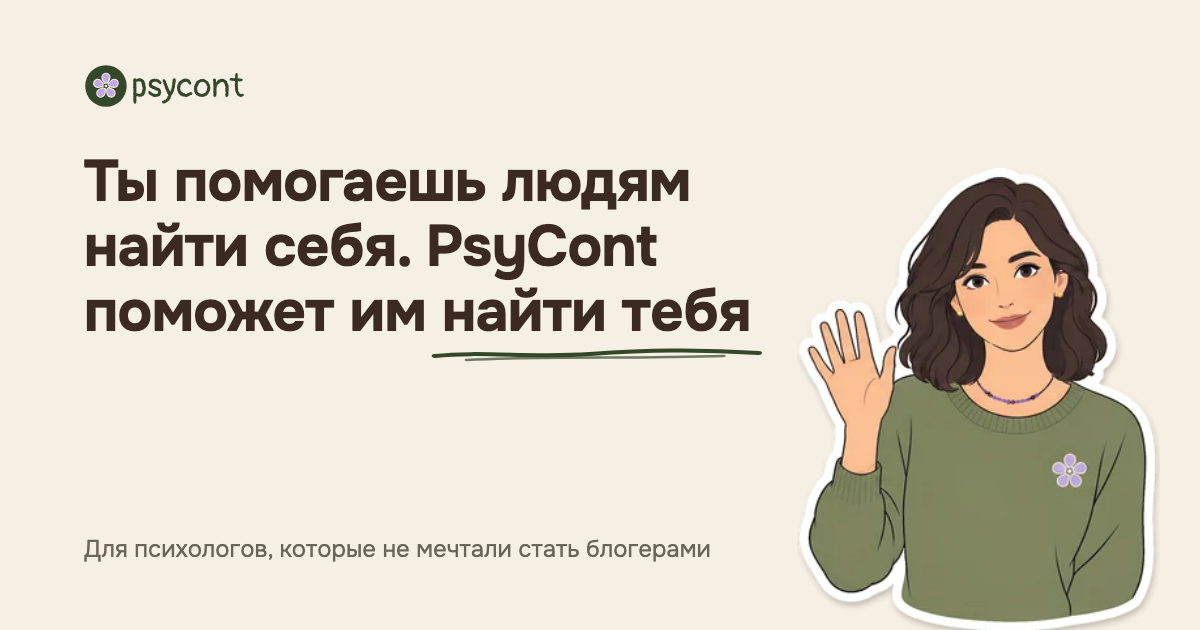
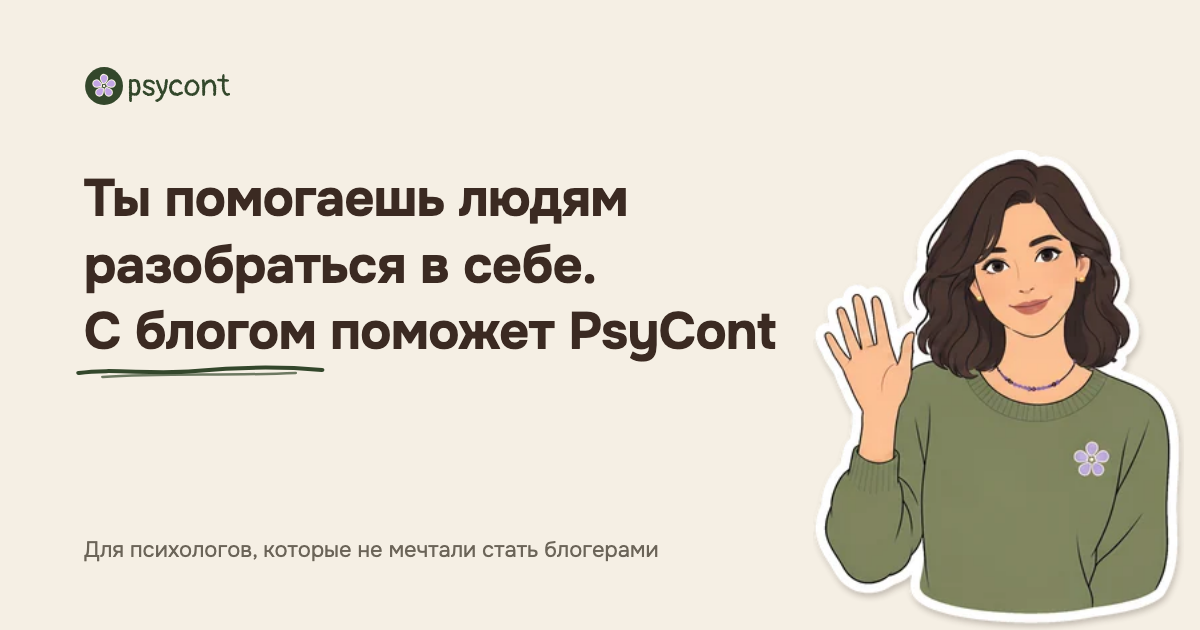
Лендинг: подзаголовок первого экрана «Тебя начнут замечать те, кому ты можешь помочь, а блог больше не придется откладывать на потом.»; описание для поисковиков, подпись и картинка для соцсетей (og.png) под новый заголовок «Ты помогаешь людям разобраться в себе. С блогом поможет PsyCont»; тексты cop

Changed region(s): [[0.0617, 0.2413, 0.9867, 1.0], [0.0617, 0.8444, 0.5858, 0.9048], [0.0617, 0.0905, 0.2158, 0.181]]

diff --git a/lib/site.ts b/lib/site.ts
@@ -1,6 +1,6 @@
 // Название и описание сайта: один источник для metadata (app/layout.tsx) и структурированных данных JSON-LD (app/page.tsx)
 export const SITE_URL = 'https://psycont.ru'
 export const SITE_TITLE = 'PsyCont: блог для психологов, которые не мечтали стать блогерами'
-export const SITE_DESCRIPTION = 'Ты помогаешь людям найти себя. PsyCont поможет им найти тебя. Расскажи мысль и получи пост, карусель и рилс твоим голосом.'
+export const SITE_DESCRIPTION = 'Ты помогаешь людям разобраться в себе, а с блогом поможет PsyCont. Расскажи мысль текстом или голосом и получи пост, карусель и рилс, которые звучат как ты.'
 // Определение сервиса прямым текстом для машин (description в JSON-LD). metadata и Open Graph остаются на SITE_DESCRIPTION
 export const SITE_DEFINITION = 'PsyCont пишет посты, карусели и сценарии рилс для психологов их голосом. Психолог рассказывает мысль текстом или голосом и получает готовый текст для Instagram.'

diff --git a/components/landing/content.ts b/components/landing/content.ts
@@ -13,7 +13,7 @@ export const HERO = {
   titleBold: 'Ты помогаешь людям разобраться в\u00A0себе.',
   titleMark: 'С\u00A0блогом',
   title: 'поможет\u00A0PsyCont',
-  lead: 'Посты, карусели и\u00A0рилсы, которые звучат как ты, а\u00A0не\u00A0как нейросеть, и\u00A0спокойно зовут читателей к\u00A0тебе на\u00A0консультацию.',
+  lead: 'Тебя начнут замечать те, кому ты\u00A0можешь помочь, а\u00A0блог больше не\u00A0придется откладывать на\u00A0потом.',
   cta: 'Попробовать бесплатно',
   note: '10 материалов бесплатно, карта не нужна',
   veraRole: 'Вера · помогаю вести блог',

diff --git a/app/layout.tsx b/app/layout.tsx
@@ -25,7 +25,7 @@ export const metadata: Metadata = {
     siteName: 'PsyCont',
     locale: 'ru_RU',
     type: 'website',
-    images: [{ url: '/og.png', width: 1200, height: 630, alt: 'PsyCont. Ты помогаешь людям найти себя. PsyCont поможет им найти тебя' }],
+    images: [{ url: '/og.png', width: 1200, height: 630, alt: 'PsyCont. Ты помогаешь людям разобраться в себе. С блогом поможет PsyCont' }],
   },
   twitter: { card: 'summary_large_image', title: TITLE, description: DESCRIPTION, images: ['/og.png'] },
   // Публичные страницы открыты для индексации; кабинет, онбординг и админка переопределяют это noindex в своих layout.

diff --git a/app/globals.css b/app/globals.css
@@ -161,7 +161,7 @@ body {
   }
 }
 
-/* Прорисовка рукописной линии под «найти тебя» на первом экране (HandUnderline draw). 600 мс, ease-out, задержка 200 мс,
+/* Прорисовка рукописной линии под «С блогом» на первом экране (HandUnderline draw). 600 мс, ease-out, задержка 200 мс,
    один раз. Только при включенном JS (scripting: enabled) и без prefers-reduced-motion, иначе линия сразу нарисована */
 @media (scripting: enabled) and (prefers-reduced-motion: no-preference) {
   .ink-draw path {
